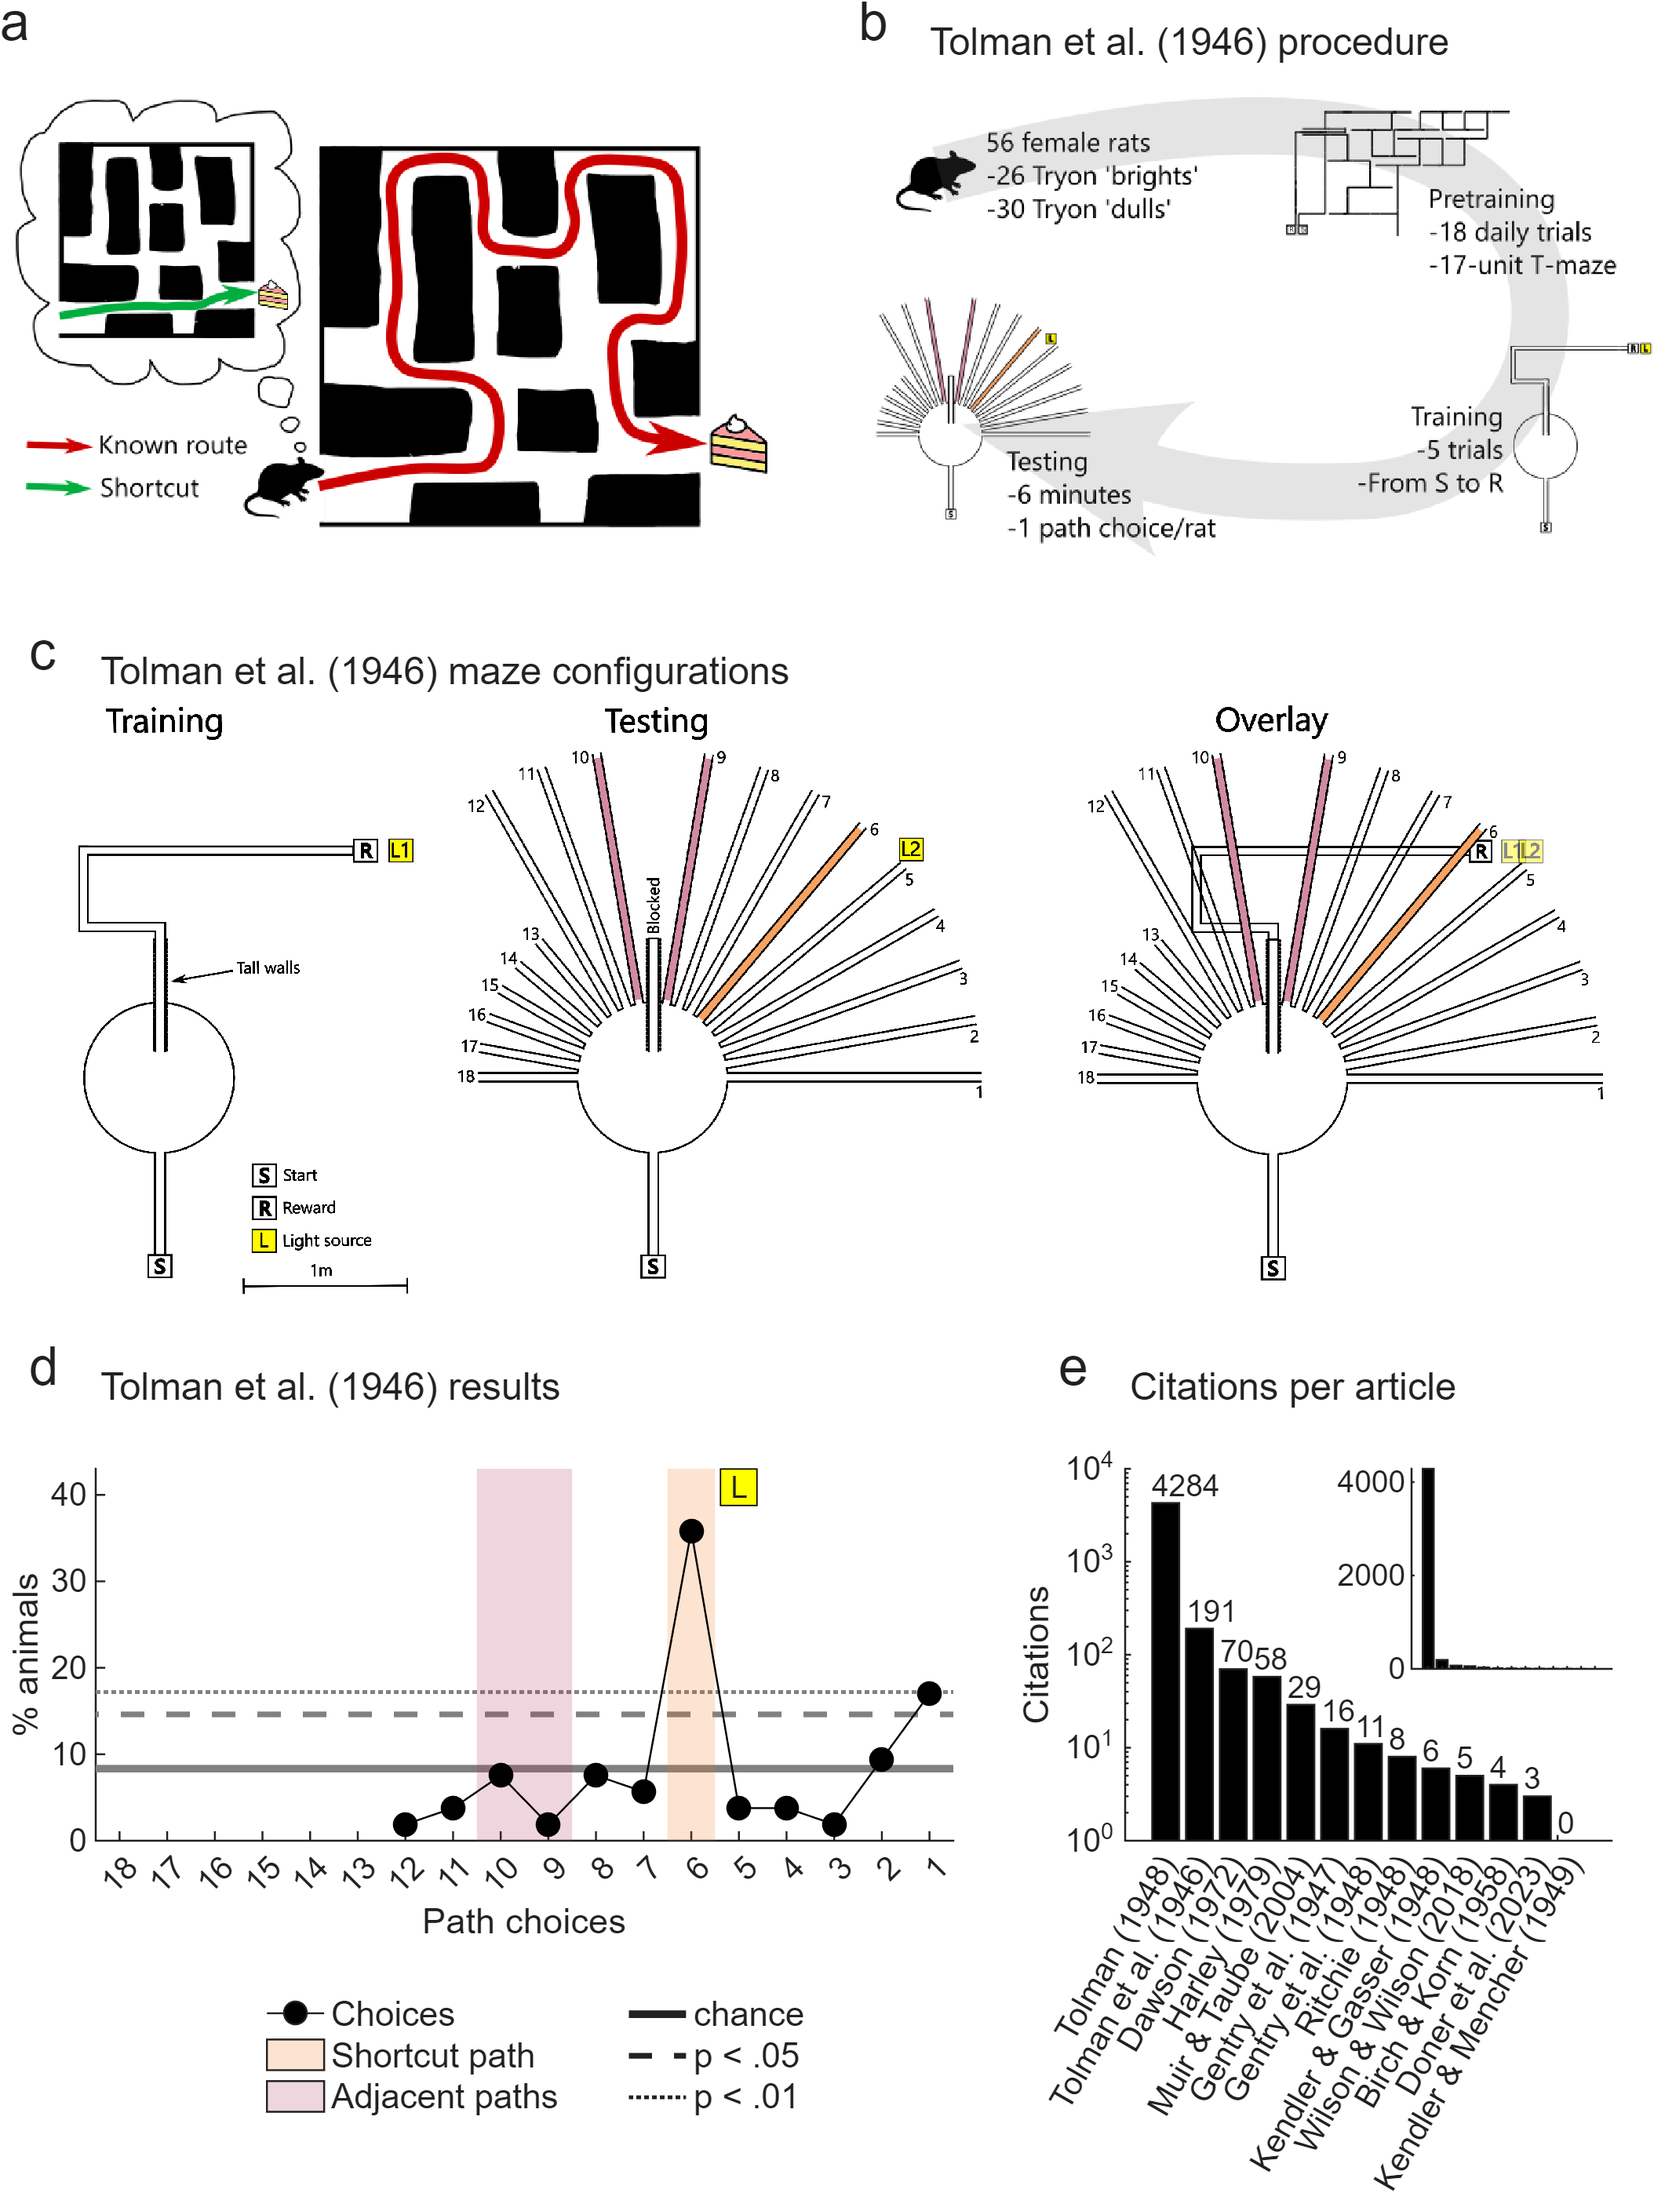
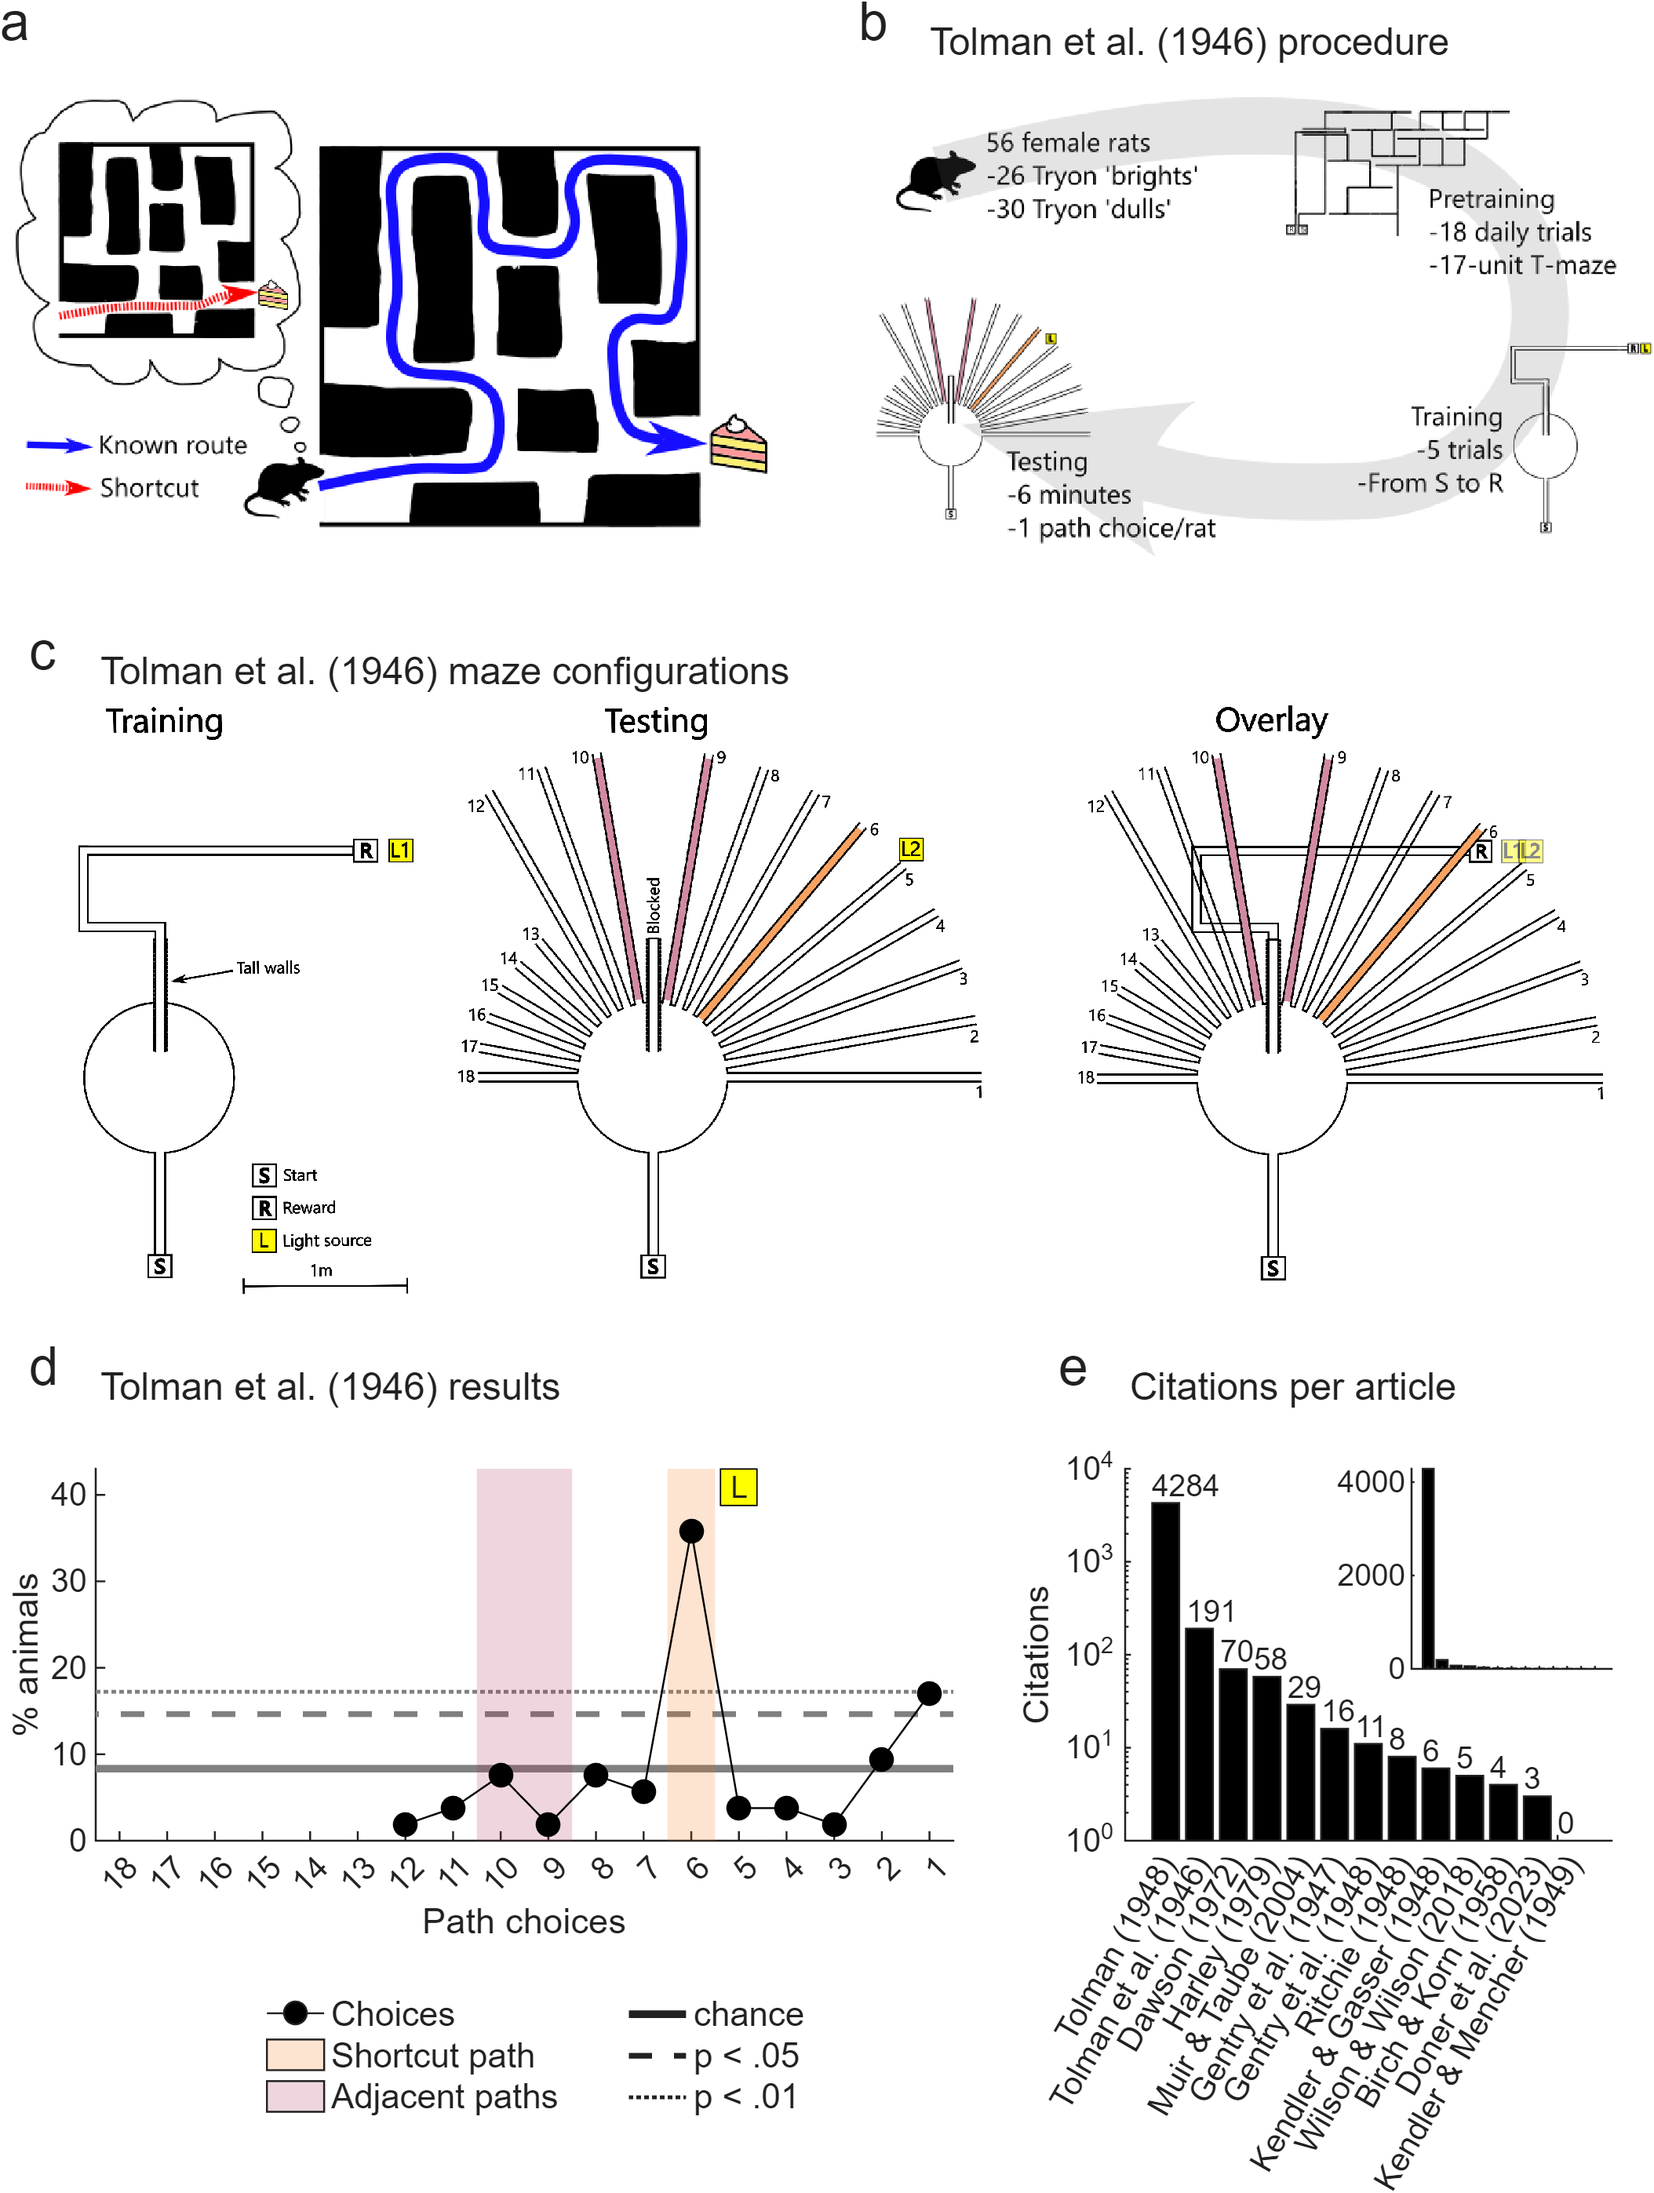
updates

diff --git a/code/TOL_main.m b/code/TOL_main.m
@@ -96,17 +96,17 @@ function TOL_main
     plot_opts.plot_overall_stats2   = 0; % TOL_fig_stats2       % Fig 4, What does the task measure?
 
     % supplementary figures
-    plot_opts.plot_gentry1947       = 0; % TOL_fig_gentry1947   % Fig S1 Gentry et al. (1947) & Birch and Korn (1958)
-    plot_opts.plot_dawson1972       = 0; % TOL_fig_dawson1972   % Fig S2 Dawson (1972)    
-    plot_opts.plot_harley1979       = 0; % TOL_fig_harley1979   % Fig S3 Harley (1979)
-    plot_opts.plot_wilson2018       = 0; % TOL_fig_wilson2018   % Fig S4 Wilson and Wilson (2018) & Doner et al. (2023)
-    plot_opts.plot_young1967        = 0; % TOL_fig_young1967    % Fig S5 Young et al. (1967)
-    plot_opts.plot_ritchie1948      = 0; % TOL_fig_ritchie1948  % Fig S6 Ritchie (1948)
-    plot_opts.plot_kendler1947      = 0; % TOL_fig_kendler1947  % Fig S7 Kendler et al. (1947; 1948)
-    plot_opts.plot_gentry1948       = 0; % TOL_fig_gentry1948   % Fig S8 Gentry et al. (1948) 
-    plot_opts.plot_muir2004         = 0; % TOL_fig_muir2004     % Fig S9 Muir and Taube (2004)
-    plot_opts.plot_tryon1929        = 0; % TOL_fig_tryon1929    % Fig S10 Tolman, Tryon and Jeffress (1929)
-    plot_opts.plot_ga               = 1; % TOL_fig_ga           % Graphical Abstract
+    plot_opts.plot_tryon1929        = 0; % TOL_fig_tryon1929    % Fig S1 Tolman, Tryon and Jeffress (1929)    
+    plot_opts.plot_gentry1947       = 0; % TOL_fig_gentry1947   % Fig S2 Gentry et al. (1947) & Birch and Korn (1958)
+    plot_opts.plot_dawson1972       = 0; % TOL_fig_dawson1972   % Fig S3 Dawson (1972)    
+    plot_opts.plot_harley1979       = 0; % TOL_fig_harley1979   % Fig S4 Harley (1979)
+    plot_opts.plot_wilson2018       = 0; % TOL_fig_wilson2018   % Fig S5 Wilson and Wilson (2018) & Doner et al. (2023)
+    plot_opts.plot_young1967        = 0; % TOL_fig_young1967    % Fig S6 Young et al. (1967)
+    plot_opts.plot_ritchie1948      = 0; % TOL_fig_ritchie1948  % Fig S7 Ritchie (1948)
+    plot_opts.plot_kendler1947      = 0; % TOL_fig_kendler1947  % Fig S8 Kendler et al. (1947; 1948)
+    plot_opts.plot_gentry1948       = 0; % TOL_fig_gentry1948   % Fig S9 Gentry et al. (1948) 
+    plot_opts.plot_muir2004         = 0; % TOL_fig_muir2004     % Fig S10 Muir and Taube (2004)
+    plot_opts.plot_ga               = 0; % TOL_fig_ga           % Graphical Abstract
 
 %%%%%%%%%%%%%%%%%%%%%%%%%%%%%%%% FUNCTION BODY
 %%%%%%%%%%%%%%%% Tolman et al. (1946) 
